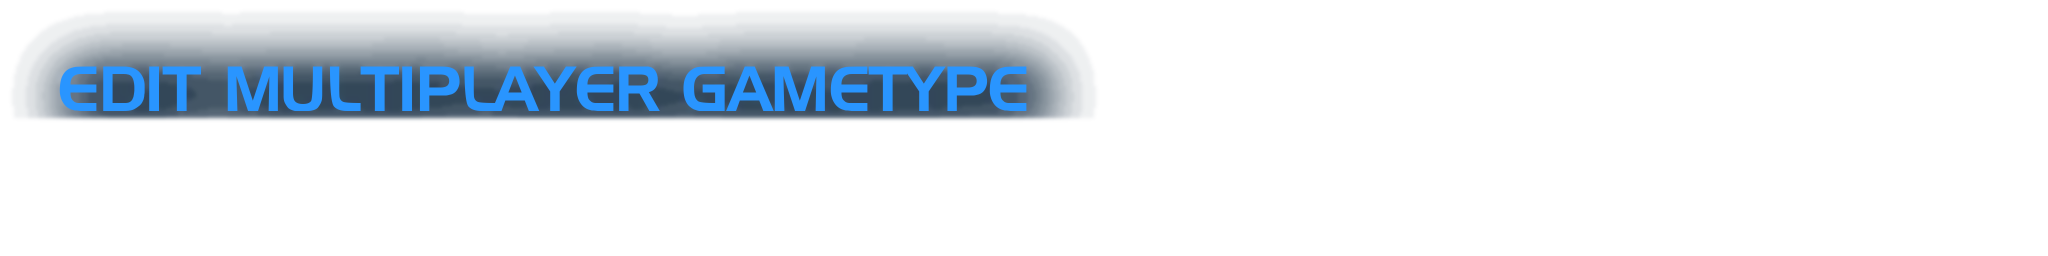
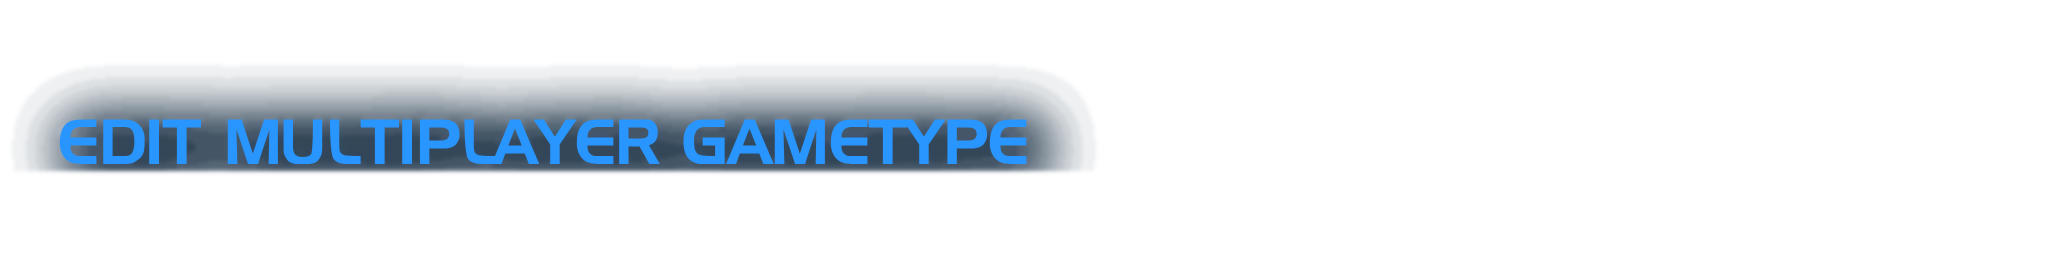
🐛 fix(menus): set the gametype editor's title at the height of every other title
The gametype editor's title picture was the game's one-line 512x32 header pasted at the top of a 512x64 frame, so its text drew half off the top of the screen. It now sits where every other 512x64 header centers what it draws. `test_every_title_picture_sets_its_title_at_the_same_height` checks that class across every shipped header picture.

Claude-Session: https://claude.ai/code/session_01Ew6apzaXMaC1RuUU8XbtxL

Changed region(s): [[0.0, 0.0938, 0.5312, 0.6875]]

diff --git a/tools/test_xbox_menus.py b/tools/test_xbox_menus.py
@@ -2018,3 +2018,22 @@ def test_gametype_editor_rows_are_tall_picture_rows():
         row = widgets[c.get('widget')]
         assert row.get('height') == '39' and row.get('row') == 'tall', row.get('name')
         assert row.get('bitmap').startswith('xbox/bitmaps/row_36/list_item_bkd'), row.get('bitmap')
+
+
+def test_every_title_picture_sets_its_title_at_the_same_height():
+    """Bug class: a title picture whose text sits higher or lower in its 512x64 frame than the others draws above or
+    below the title band (the gametype editor's, made from the game's one-line 512x32 header, drew half off the top
+    of the screen). Every shipped header picture of the standard title size centers what it draws at one height."""
+    from PIL import Image
+
+    centers = {}
+    for frame in ET.parse(MENUS / 'xbox' / 'bitmaps.xml').getroot().iter('frame'):
+        png = frame.get('png') or ''
+        if png.rsplit('/', 1)[-1].startswith('header') and (frame.get('width'), frame.get('height')) == ('512', '64'):
+            if (MENUS / png).is_file():
+                image = Image.open(MENUS / png).convert('RGBA')
+                box = image.getchannel('A').getbbox()
+                centers[png] = (box[1] + box[3]) / 2 / image.height
+    assert len(centers) >= 30
+    reference = sorted(centers.values())[len(centers) // 2]
+    assert {png: center for png, center in centers.items() if abs(center - reference) > 0.01} == {}
